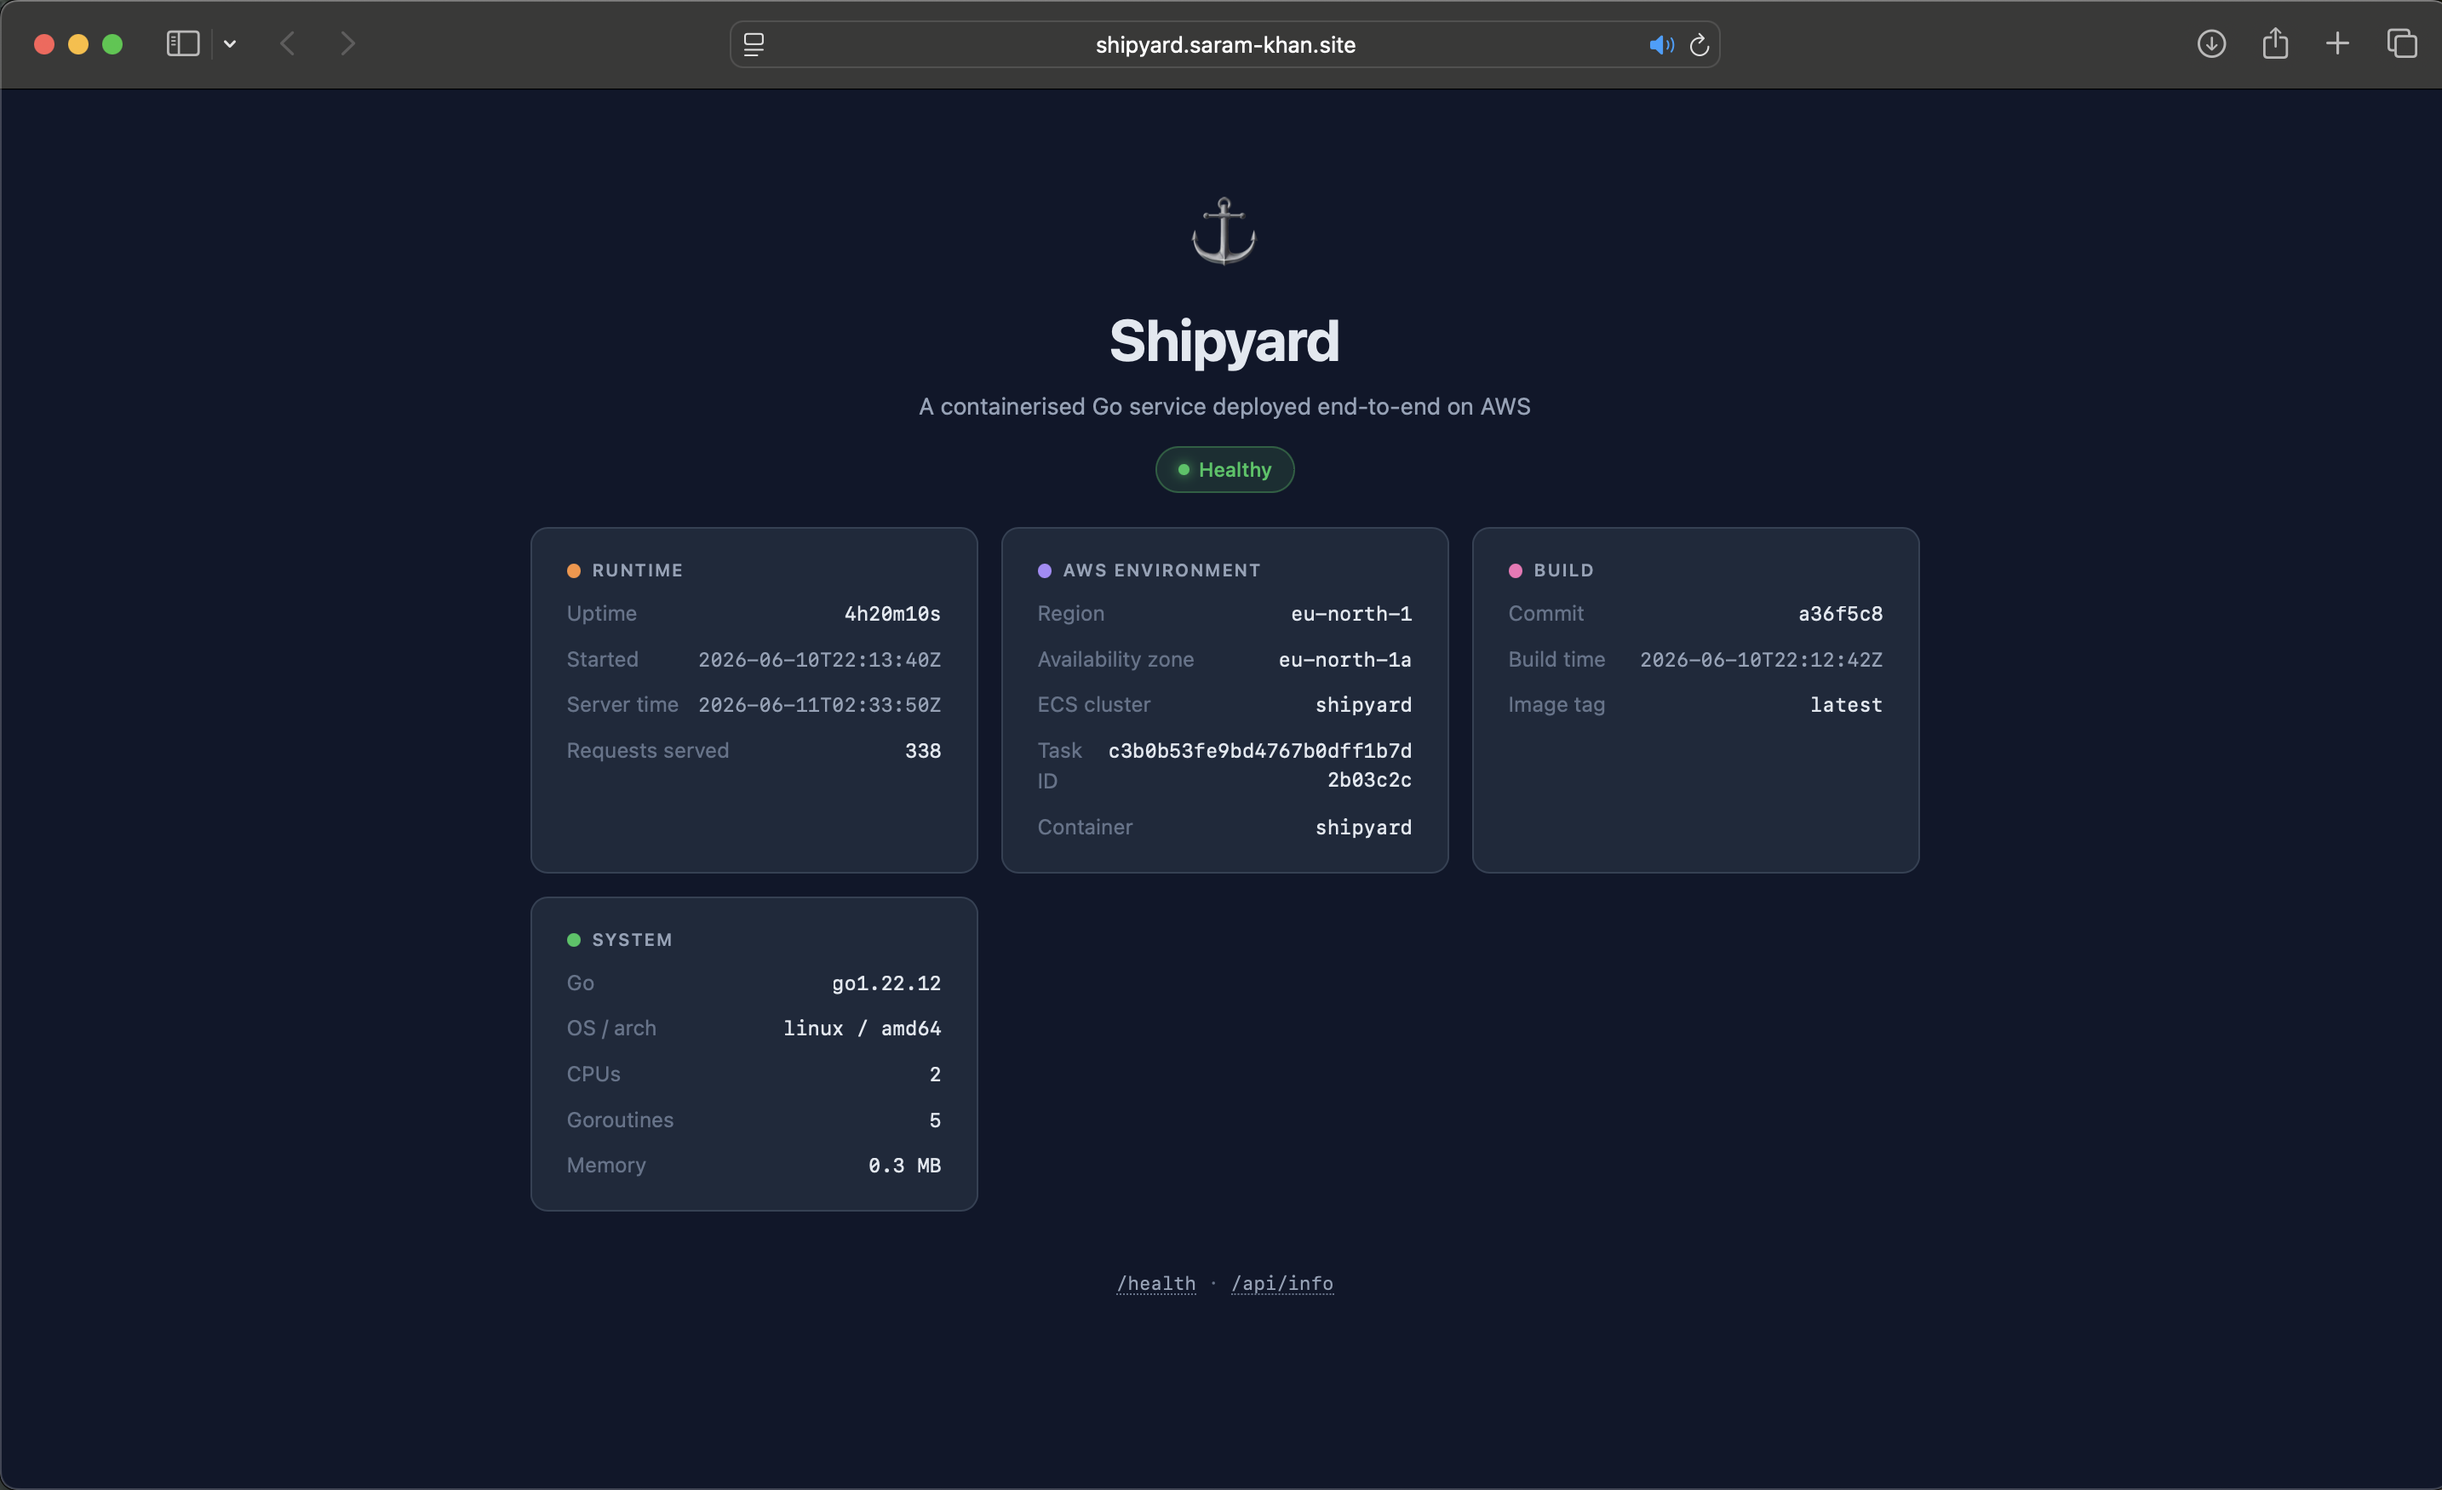
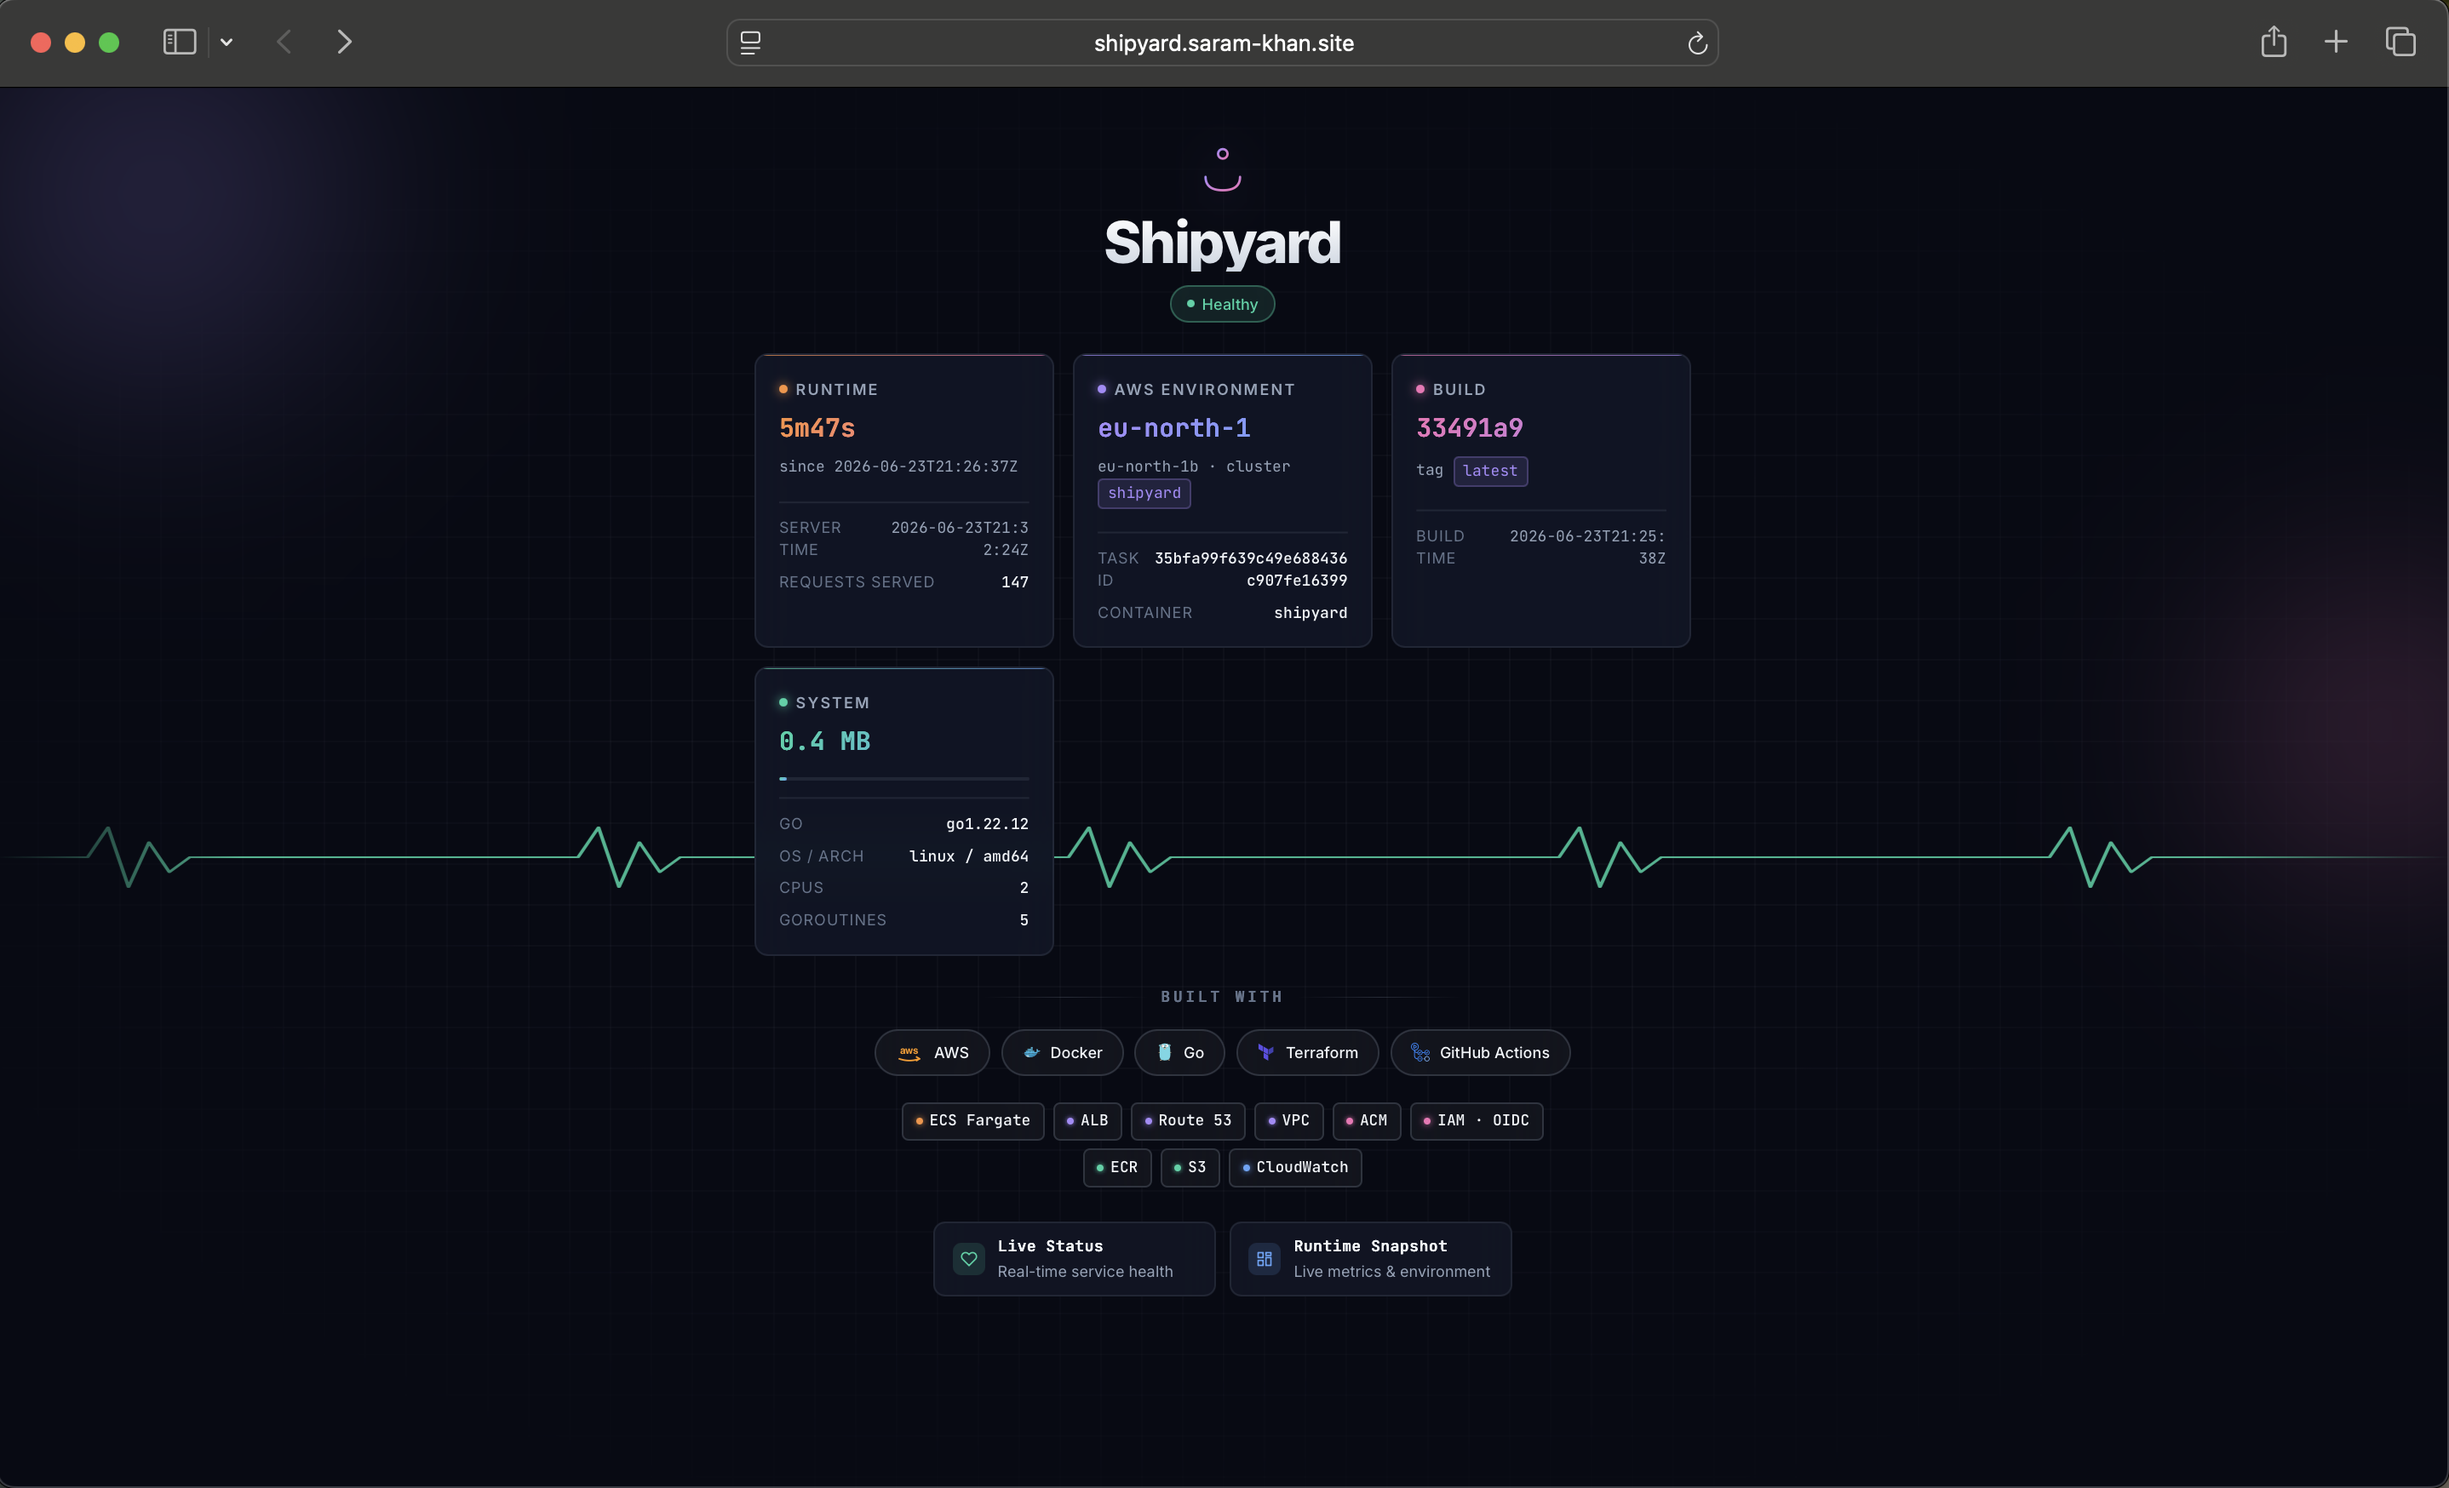
docs: refresh dashboard screenshot and add /health & /api/info page screenshots

diff --git a/README.md b/README.md
@@ -111,6 +111,11 @@ graph TB
 
 The AWS card on `/` pulls live data from the ECS Task Metadata Endpoint v4 (`ECS_CONTAINER_METADATA_URI_V4`), so the displayed region / AZ / task ID belong to the *actual* Fargate task serving the request. Run the same image locally and the card gracefully says "not running on ECS."
 
+`GET /health` and `GET /api/info` use content negotiation — `curl` (and the ALB target-group probe) get the canonical JSON, while a browser opening the same URL is served a styled page. `/health` renders an "All systems go" status card with live vitals and an inline ECG line; `/api/info` renders a Runtime Snapshot diagnostic with stat tiles and grouped detail cards for the cloud environment, build, and system.
+
+![/health — All systems go status card with live vitals](docs/screenshots/24-health-page.png)
+![/api/info — Runtime Snapshot with stat tiles and detail cards](docs/screenshots/25-info-page.png)
+
 ---
 
 ## Step 1 — Run the app locally
